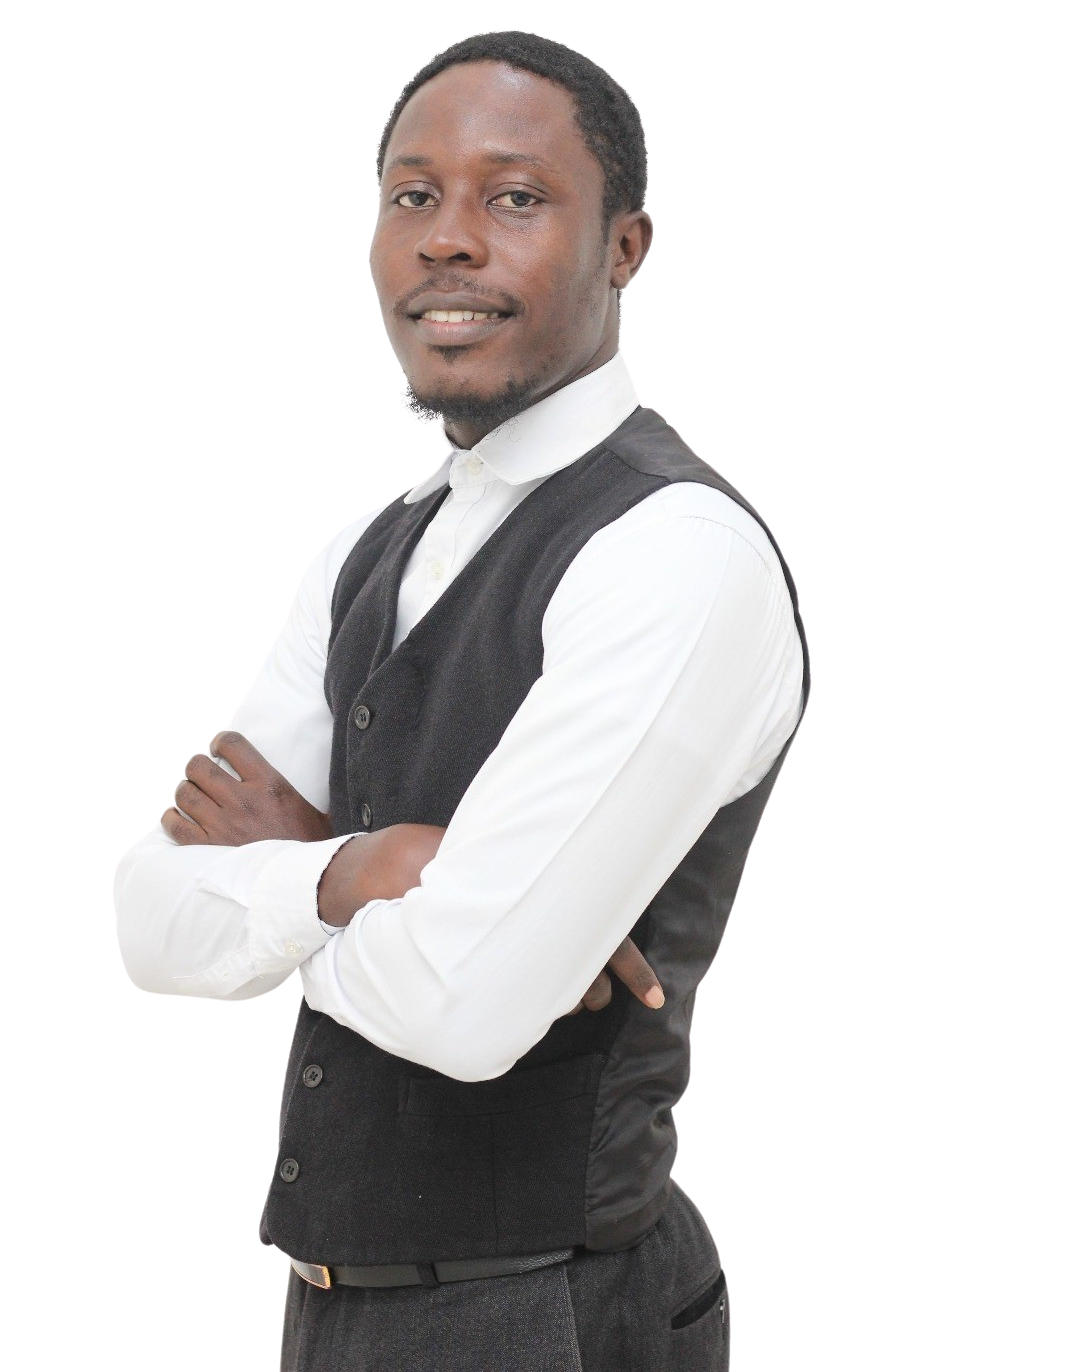
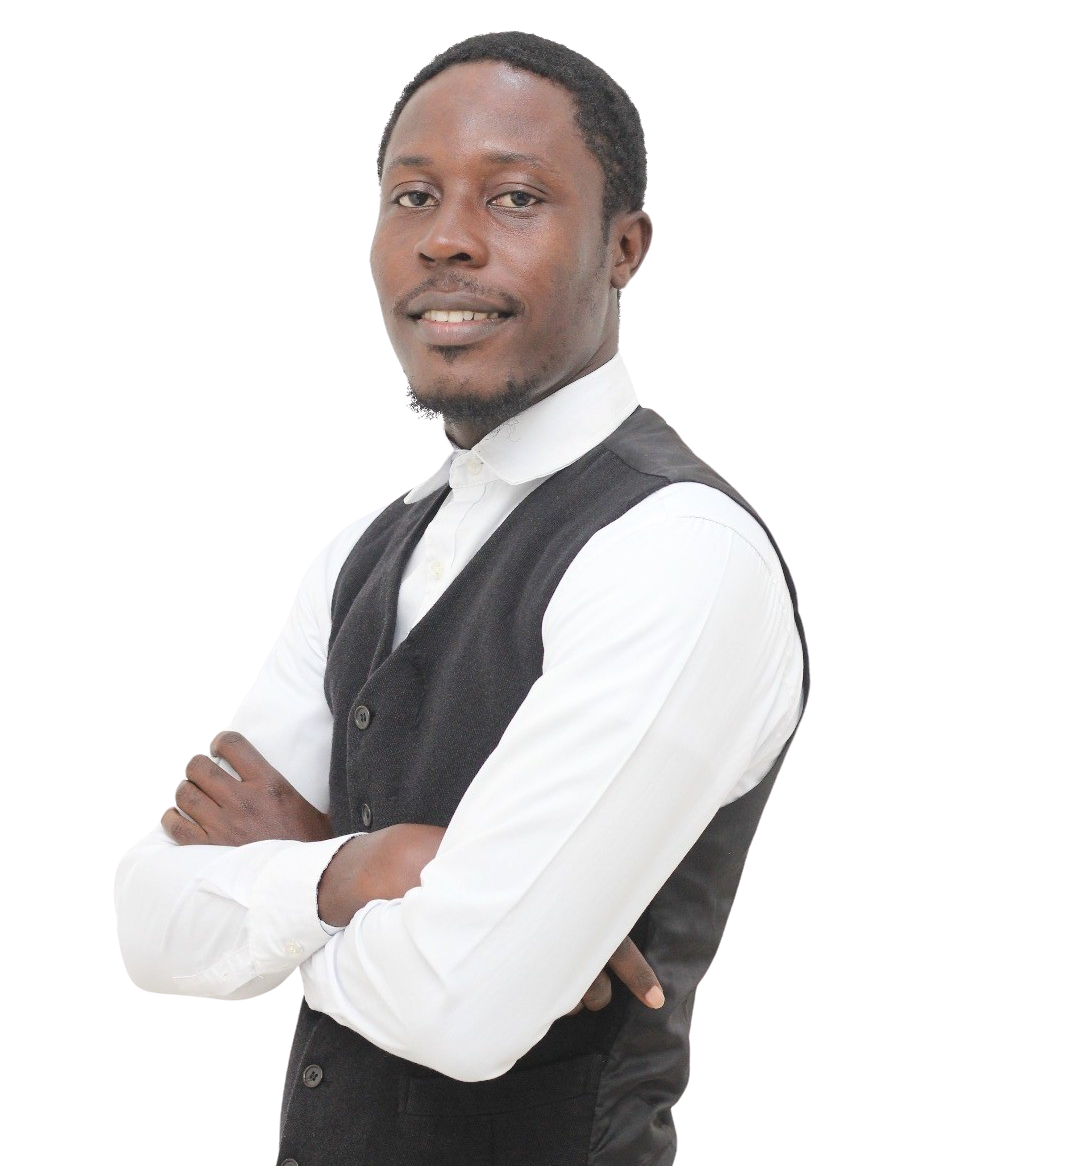
done with the hero section

Changed region(s): [[0.0929, 0.0, 0.7739, 1.0]]

diff --git a/src/Hero.jsx b/src/Hero.jsx
@@ -1,0 +1,33 @@
+import Button from "./Components/Button";
+
+const Hero = () => {
+  return (
+    <section className="w-full px-20  bg-bg-color flex  xl:flex-row flex-col justify-between items-center min-h-screen gap-5">
+      <div className="relative xl:w-2/5 flex flex-col justify-center items-start max-xl:px-5 w-full">
+        <p className="font-Mulish text-sm  text-txt-color opacity-40 pb-5">
+          Hello !
+        </p>
+        <h1 className="font-Roboto_Slab text-8xl max-lg:text-5xl text-white">
+          I'm <span className="text-txt-color">Godfred</span>
+        </h1>
+        <p className="font-Mulish text-sm font-semibold text-white py-4 ">
+          Godfred Adjetey is a dedicated web designer and developer with two
+          years of experience in the field. Currently, he is a student at Accra
+          Technical University, where he continues to refine his skills and
+          deepen his knowledge in web development. His passion for creating
+          dynamic and user-friendly websites drives his commitment to continuous
+          learning and professional growth.
+        </p>
+        <Button name="Contact Me "icon={"/src/Assets/Icons/call_20dp_E8EAED_FILL0_wght400_GRAD0_opsz20.png" alt={"call icon"}} />
+      </div>
+      <img
+        src="/src/Assets/Images/pg2.png"
+        alt="profile pic"
+        width={400}
+        height={200}
+      />
+    </section>
+  );
+};
+
+export default Hero;

diff --git a/src/Components/Button.jsx b/src/Components/Button.jsx
@@ -1,0 +1,16 @@
+const Button = ({ name, icon }) => {
+  return (
+    <button className="flex justify-center items-center gap-2 px-7 py-4 font-Mulish text-lg leading-none bg-bg-div text-bg-color rounded-lg ">
+      {name}
+      {icon && (
+        <img
+          src={icon}
+          alt="call Icon"
+          className="ml-2 rounded-full w-h h-5 "
+        />
+      )}
+    </button>
+  );
+};
+
+export default Button;

diff --git a/src/NavBar.jsx b/src/NavBar.jsx
@@ -2,7 +2,7 @@ import NavLinks from "./Components/NavLinks";
 
 const NavBar = () => {
   return (
-    <header className="absolute z-10 w-full bg-bg-color py-8 px-20 max-sm:px-2  ">
+    <header className=" z-10 w-full bg-bg-color py-8 px-20 max-sm:px-2 ">
       <nav className="flex justify-between items-center">
         <a href="">
           <img

diff --git a/index.html b/index.html
@@ -2,7 +2,7 @@
 <html lang="en">
   <head>
     <meta charset="UTF-8" />
-    <link rel="icon" type="image/svg+xml" href="/public/Logo.png" />
+    <link rel="icon" type="image/svg+xml" href="/Logo.png" />
     <meta name="viewport" content="width=device-width, initial-scale=1.0" />
     <title>Godfred Portfolio</title>
   </head>

diff --git a/src/App.jsx b/src/App.jsx
@@ -1,10 +1,12 @@
+import Hero from "./Hero";
 import NavBar from "./NavBar";
 
 function App() {
   return (
     <>
-      <section className="w-full  ">
-        <NavBar />
+      <NavBar />
+      <section className="">
+        <Hero />
       </section>
     </>
   );
